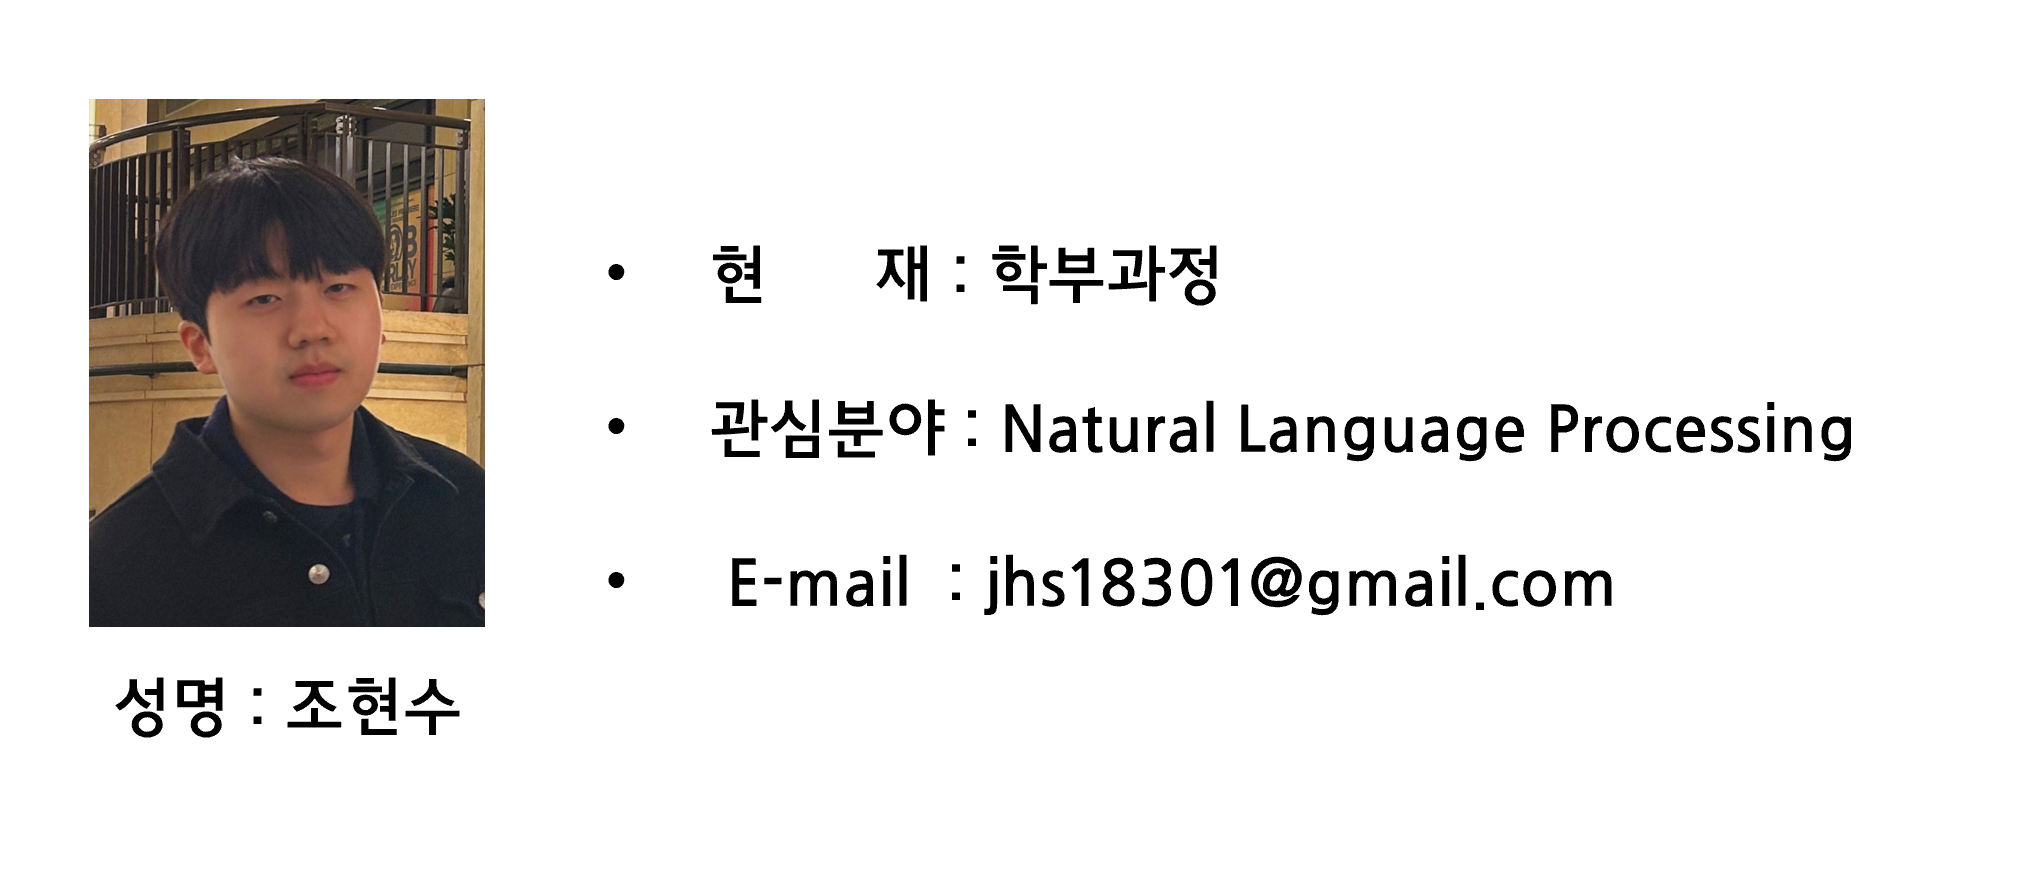
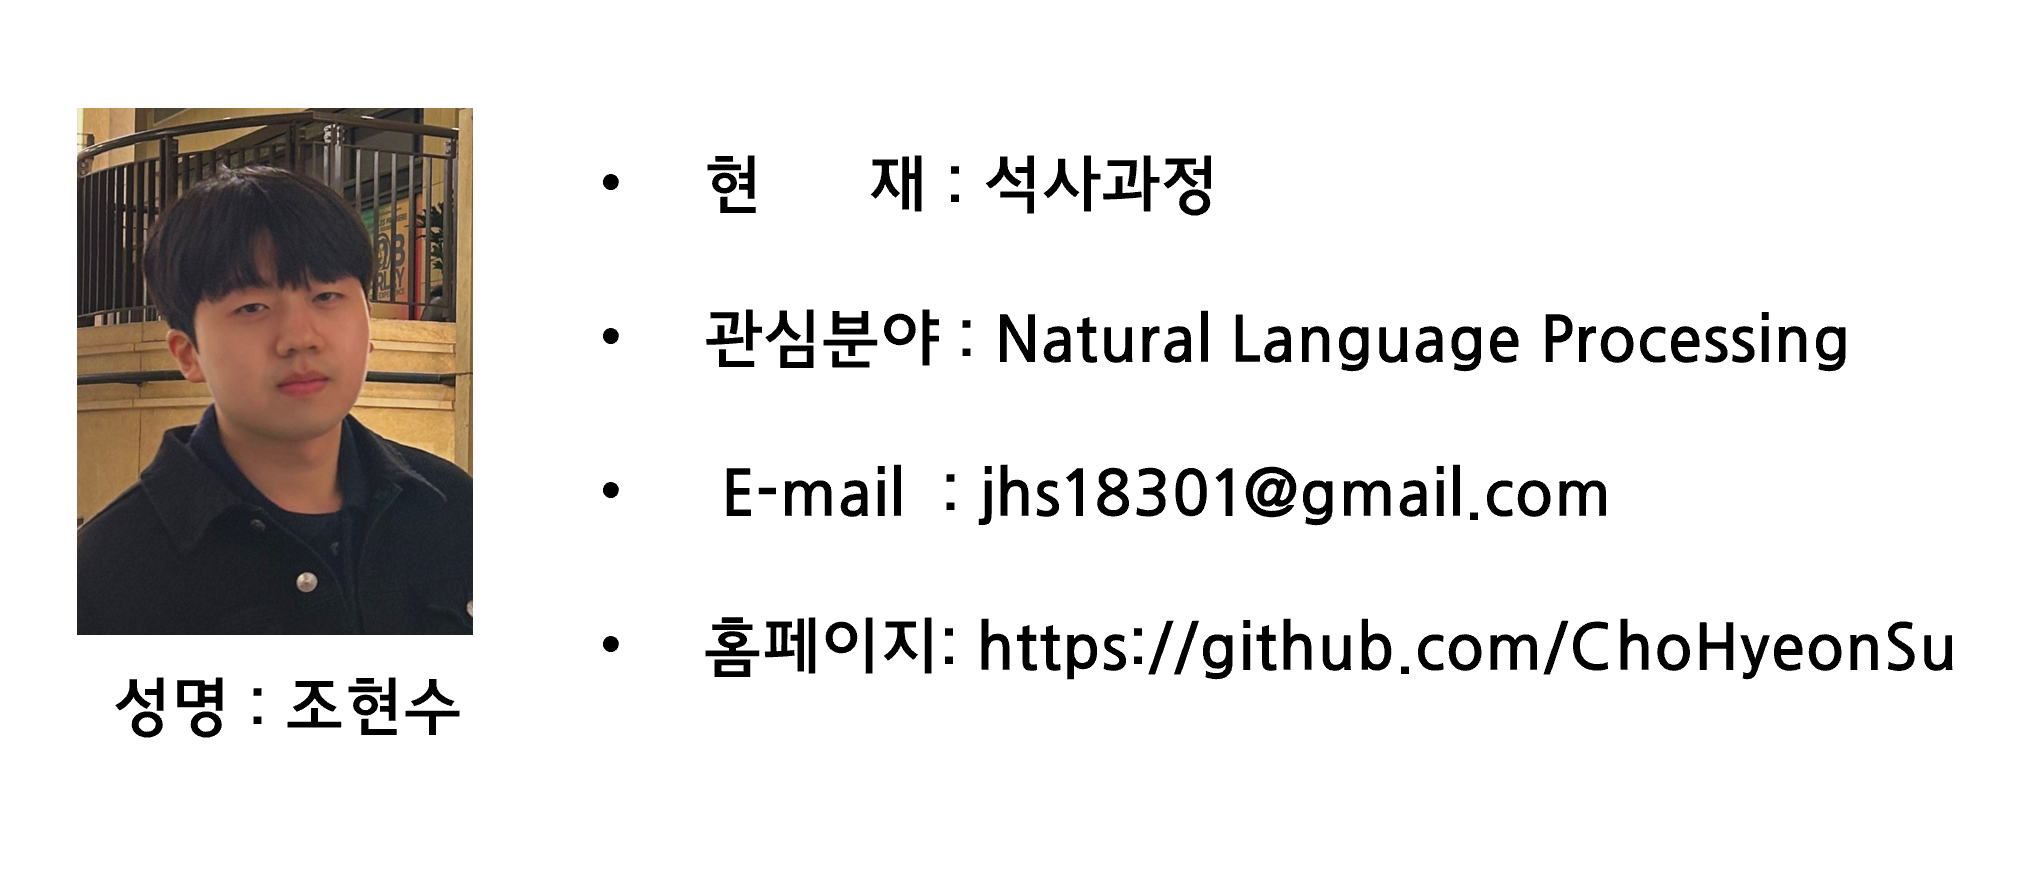
Update Members.html

diff --git a/Members.html b/Members.html
@@ -51,10 +51,6 @@ title: Members
 
 	<blockquote>
 	<p><a name="3"><font style = "color:#0000A5;">#석사과정</font></a></p>
-	<p><div><a href = "https://github.com/jjapagguri" target = "_blank"><img class = "center" src="/assets/img/members/member_cgr.png" width = "250px" height = "125px"></div></p>
-	<p><div><a href = "https://github.com/bambidz" target = "_blank"><img class = "center" src="/assets/img/members/member_cyj.png" width = "250px" height = "125px"></div></p>
-	<p><div><a href = "https://github.com/jaeah-joah" target = "_blank"><img class = "center" src="/assets/img/members/member_yja.png" width = "250px" height = "125px"></div></p>
-	<p><div><a href = "https://github.com/HongheeLee" target = "_blank"><img class = "center" src="/assets/img/members/member_lhh.png" width = "250px" height = "125px"></div></p>
 	<p><div><a href = "https://github.com/grace-kj" target = "_blank"><img class = "center" src="/assets/img/members/member_kjy.png" width = "250px" height = "125px"></div></p>
 	<p><div><a href = "https://github.com/HACore" target = "_blank"><img class = "center" src="/assets/img/members/member_lhe.png" width = "250px" height = "125px"></div></p>
 	<p><div><a href = "https://github.com/KIMKEUNHA" target = "_blank"><img class = "center" src="/assets/img/members/member_kkh.png" width = "250px" height = "125px"></div></p>
@@ -63,17 +59,18 @@ title: Members
 	<p><div><a href = "https://github.com/seumm" target = "_blank"><img class = "center" src="/assets/img/members/member_ssm.png" width = "250px" height = "125px"></div></p>
 	<p><div><a href = "https://heygeronimo.tistory.com" target = "_blank"><img class = "center" src="/assets/img/members/member_pjy.png" width = "250px" height = "125px"></div></p>
 	<p><div><a href = "https://github.com/yali98" target = "_blank"><img class = "center" src="/assets/img/members/member_jyj.png" width = "250px" height = "125px"></div></p>
+	<p><div><a href = "https://github.com/tkfhdk123" target = "_blank"><img class = "center" src="/assets/img/members/member_pjj.png" width = "250px" height = "125px"></div></p>
+	<p><div><a href = "https://github.com/" target = "_blank"><img class = "center" src="/assets/img/members/member_psw.png" width = "250px" height = "125px"></div></p>
+	<p><div><a href = "https://github.com/ChoHyeonSu" target = "_blank"><img class = "center" src="/assets/img/members/member_jhs.png" width = "250px" height = "125px"></div></p>
 	<p><small><a href="#top">Back to Top</a></small></p>
 	</blockquote>
 
 	<blockquote>
 	<p><a name="4"><font style = "color:#0000A5;">#학부과정</font></a></p>
-	<p><div><img class = "center" src="/assets/img/members/member_pjj.png" width = "250px" height = "125px"></div></p>
-	<p><div><img class = "center" src="/assets/img/members/member_psw.png" width = "250px" height = "125px"></div></p>
-	<p><div><img class = "center" src="/assets/img/members/member_jhs.png" width = "250px" height = "125px"></div></p>
-	<p><div><img class = "center" src="/assets/img/members/member_ysw.png" width = "250px" height = "125px"></div></p>
-	<p><div><img class = "center" src="/assets/img/members/member_hym.png" width = "250px" height = "125px"></div></p>
-	<p><div><img class = "center" src="/assets/img/members/member_hjw.png" width = "250px" height = "125px"></div></p>
+	<p><div><a href = "https://github.com/mikeysw/mikeysw" target = "_blank"><img class = "center" src="/assets/img/members/member_ysw.png" width = "250px" height = "125px"></div></p>
+	<p><div><a href = "" target = "_blank"><img class = "center" src="/assets/img/members/member_hym.png" width = "250px" height = "125px"></div></p>
+	<p><div><a href = "" target = "_blank"><img class = "center" src="/assets/img/members/member_hjw.png" width = "250px" height = "125px"></div></p>
+	<p><div><a href = "https://github.com/r01ex" target = "_blank"><img class = "center" src="/assets/img/members/member_ktr.png" width = "250px" height = "125px"></div></p>
 	<p><small><a href="#top">Back to Top</a></small></p>
 	</blockquote>
 
@@ -257,6 +254,30 @@ title: Members
 		<li>석사 - 2023. 02</li>
 		<li>두나무 (Dunamu)</li>
 		<li>E-mail : pcw1102@gmail.com</li>
+	</ul>
+	<h5>최규리</h5>
+	<ul>
+		<li>석사 - 2024. 02</li>
+		<li>POSCO Holdings Corp.</li>
+		<li>E-mail : gguriskku@gmail.com</li>
+	</ul>
+	<h5>장영재</h5>
+	<ul>
+		<li>석사 - 2024. 02</li>
+		<li>Nexon Corp.</li>
+		<li>E-mail : xela0chang@gmail.com</li>
+	</ul>
+	<h5>유재아</h5>
+	<ul>
+		<li>석사 - 2024. 02</li>
+		<li>Saltlux Corp.</li>
+		<li>E-mail : youjaeah@gmail.com</li>
+	</ul>
+	<h5>이홍희</h5>
+	<ul>
+		<li>석사 - 2024. 02</li>
+		<li>KT Research Center.</li>
+		<li>E-mail : honghee.lee1101@gmail.com</li>
 	</ul>
 	<p><small><a href="#top">Back to Top</a></small></p>
 	</blockquote>
